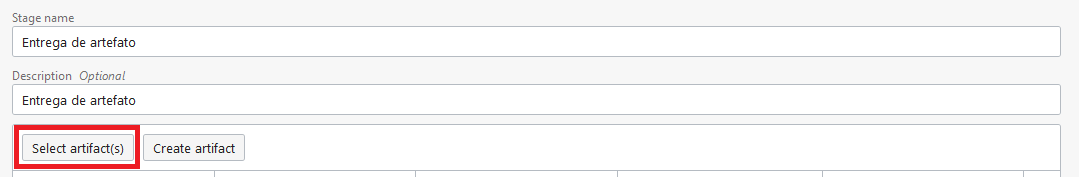
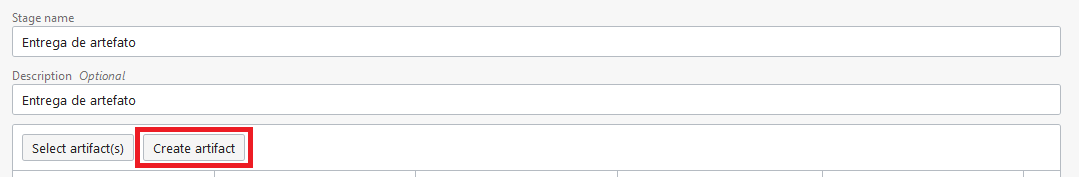
Lab. #4

Changed region(s): [[0.0, 0.7062, 0.2447, 0.9605]]

diff --git a/Lab. #4 - Automating Deployment/README.md b/Lab. #4 - Automating Deployment/README.md
@@ -18,6 +18,8 @@ Nesta etapa, você construirá uma esteira de desenvolvimento, com o serviço **
 
  ## <a name="PreReqs"></a> Pre Reqs: Executar terraform de preparação de ambiente, e coletar informações relevantes ao processo
 
+👀 **ATENÇÃO** - *Caso você já tenha executado o [Lab. #1](../Lab.%20%231%20-%20Resource%20Provisioning) e o [Lab. #2](Lab.%20%232%20-%20Developing%20Cloud%20Native%20Applications%20-%20Parte%201), basta coletar o APM_PVDATAKEY na [etapa 10](#Etapa10).*
+
  1. Faça o [login](https://www.oracle.com/cloud/sign-in.html) em sua conta na OCI. 
  2. Execute o [Lab. #1](../Lab.%20%231%20-%20Resource%20Provisioning), caso não o tenha executado anteriormente.
  3. No canto direito superior, clique no ícone de perfil, e clique em seu usuário.
@@ -51,7 +53,7 @@ Nesta etapa, você construirá uma esteira de desenvolvimento, com o serviço **
    
  ![](./Images/007-LAB4.png)
 
- 10. Copie as informações necessárias para o bloco de notas.
+ 10. <a name="Etapa10"></a> Copie as informações necessárias para o bloco de notas.
 
 - APM_ENDPOINT: Item 1 da imagem
 - APM_PVDATAKEY: Item 2 da imagem
@@ -215,7 +217,7 @@ Nesta etapa, você construirá uma esteira de desenvolvimento, com o serviço **
 ![](./Images/028-LAB4.png)
 
 
- 3. Preencha o formulário como abaixo e clique em **Select artifact(s)**.
+ 3. Preencha o formulário como abaixo e clique em **Create artifact**.
  - **Stage name**: Entrega de artefato
  - **Description**: (Defina uma descrição qualquer).
 
@@ -265,6 +267,8 @@ Nesta etapa, você construirá uma esteira de desenvolvimento, com o serviço **
        
 ![](./Images/033_1-LAB4.png)
 
+👀 **ATENÇÃO** - *Caso você já tenha executado o [Lab. #1](../Lab.%20%231%20-%20Resource%20Provisioning) nomeando o container registry como "java-img", pode pular para o [final deste passo](#FinalPasso3).*
+
 10. Duplique a aba do seu navegador, clique no 🍔 menu hamburguer e acesse: **Developer Services** → **Container Registry**.
 
 ![](./Images/060_0-LAB4.png)
@@ -278,12 +282,7 @@ Nesta etapa, você construirá uma esteira de desenvolvimento, com o serviço **
 
 ![](./Images/062-LAB4.png)
 
-
-13. Volte à aba anterior, no OCI DevOps e, no canto superior direito, clique em **Start Manual Run**.
-       
-![](./Images/034_0-LAB4.png)
-
-Isso conclui a parte de Build (CI) do projeto! Até aqui automatizamos a compilação do código java, criamos a imagem de contêiner, e armazenamos ambas nos repositórios de artefatos, e de imagens de contêiner respectivamente. Vamos agora para a parte de Deployment (CD)!
+<a name="FinalPasso3"></a> Isso conclui a parte de Build (CI) do projeto! Até aqui automatizamos a compilação do código java, criamos a imagem de contêiner, e armazenamos ambas nos repositórios de artefatos, e de imagens de contêiner respectivamente. Vamos agora para a parte de Deployment (CD)!
 
 ## <a name="Passo4"></a> Passo 4: Criar e configurar entrega de aplicação a cluster Kubernetes (CD)
 
@@ -362,7 +361,7 @@ NAME           STATUS   ROLES   AGE   VERSION
  - **Name**: deployment.yaml
  - **Type**: Kubernetes manifest
  - **Artifact Source**: Inline
- - **Value**: Cole o conteudo do arquivo https://github.com/CeInnovationTeam/BackendFTDev/blob/main/scripts/deployment.yaml
+ - **Value**: Cole o conteúdo do arquivo https://github.com/CeInnovationTeam/BackendFTDev/blob/main/scripts/deployment.yaml
  *Não altere a identação (espaços) do documento, pois isso pode quebrá-lo*.
  - **Replace parameters used in this artifact**: Yes, substitute placeholders
           
